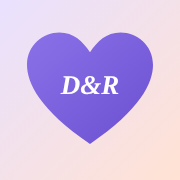
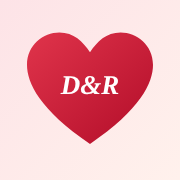
Thème « rouge passion » et champ date de rencontre compact
- Nouvelle palette romantique : fond ivoire rosé, rouge profond pour les boutons et accents,
  texte bordeaux, touches de rose (toutes les teintes de l'ancien thème remplacées)
- Icône de l'appli et couleurs d'installation en rouge
- Champs date (connexion, inscription, etc.) : même hauteur que les autres champs,
  sans l'apparence agrandie d'iOS, libellé compact au-dessus

Claude-Session: https://claude.ai/code/session_01DGKm3Fp7c6nJh9fQRkTSa6

Changed region(s): [[0.1389, 0.1667, 0.8611, 0.8056], [0.9722, 0.9722, 1.0, 1.0]]

diff --git a/index.html b/index.html
@@ -3,7 +3,7 @@
 <head>
 <meta charset="utf-8">
 <meta name="viewport" content="width=device-width, initial-scale=1, viewport-fit=cover">
-<meta name="theme-color" content="#F8F5FF">
+<meta name="theme-color" content="#FFF8F6">
 <meta name="color-scheme" content="light">
 <meta name="apple-mobile-web-app-capable" content="yes">
 <meta name="mobile-web-app-capable" content="yes">
@@ -17,18 +17,18 @@
 <link href="https://fonts.googleapis.com/css2?family=Playfair+Display:ital,wght@0,600;0,700;1,500;1,600&family=Plus+Jakarta+Sans:wght@400;500;600;700;800&family=Caveat:wght@600&display=swap" rel="stylesheet">
 <style>
   :root{
-    /* Ambiance B : lavande & pêche */
-    --night:#F8F5FF; --night2:#EFE9FF; --plum:#FFE8DD;
-    --text:#2E2547; --muted:#625A80; --faint:#736C8E;
-    --rose:#6A50D0; --rose2:#5B43C4; --peach:#FFB08F; --gold:#B5532D; --mint:#2F9E7E;
-    --glass:#FFFFFF; --glass2:#F3EFFF; --stroke:#E7E1F5;
-    --lav:#ECE6FF; --peachsoft:#FFE8DD; --shadow:0 8px 24px rgba(46,37,71,.07);
+    /* Thème « rouge passion » : ivoire rosé, rouge profond, bordeaux */
+    --night:#FFF8F6; --night2:#FDEDEE; --plum:#FFEDEA;
+    --text:#3A1520; --muted:#7A4E57; --faint:#8A6168;
+    --rose:#C8102E; --rose2:#A80D26; --peach:#F4A3A8; --gold:#B0413E; --mint:#2F9E7E;
+    --glass:#FFFFFF; --glass2:#FDF1F2; --stroke:#F3DFE2;
+    --lav:#FCE4E7; --peachsoft:#FFEDEA; --shadow:0 8px 24px rgba(58,21,32,.07);
     --serif:'Playfair Display',Georgia,serif; --sans:'Plus Jakarta Sans',system-ui,sans-serif; --hand:'Caveat',cursive;
   }
   *{box-sizing:border-box;-webkit-tap-highlight-color:transparent}
   html,body{margin:0;min-height:100%;color:var(--text);font-family:var(--sans);font-size:16px;background:var(--night)}
-  body{background:radial-gradient(700px 380px at 100% -5%,rgba(255,176,143,.28),transparent 65%),
-      radial-gradient(700px 420px at -10% 0%,rgba(155,135,245,.22),transparent 60%),var(--night)}
+  body{background:radial-gradient(700px 380px at 100% -5%,rgba(244,163,168,.28),transparent 65%),
+      radial-gradient(700px 420px at -10% 0%,rgba(227,93,106,.22),transparent 60%),var(--night)}
   button,input,textarea{font-family:inherit;color:inherit;font-size:inherit}
   #app{position:relative;z-index:1;max-width:560px;margin:0 auto;min-height:100dvh;display:flex;flex-direction:column}
   .page{flex:1;padding:8px 18px calc(110px + env(safe-area-inset-bottom))}
@@ -43,15 +43,15 @@
 
   /* en-tête et navigation */
   .top{position:sticky;top:0;z-index:5;display:flex;align-items:center;justify-content:space-between;
-       padding:calc(12px + env(safe-area-inset-top)) 18px 10px;background:linear-gradient(rgba(248,245,255,.96) 65%,rgba(248,245,255,0))}
+       padding:calc(12px + env(safe-area-inset-top)) 18px 10px;background:linear-gradient(rgba(255,248,246,.96) 65%,rgba(255,248,246,0))}
   .brand{font-family:var(--serif);font-size:26px;font-weight:700;font-style:italic;letter-spacing:.3px}
   .brand b{color:var(--rose);font-style:normal;display:inline-block;animation:beat 2s infinite;margin:0 2px}
   @keyframes beat{0%,100%{transform:scale(1)}12%{transform:scale(1.25)}24%{transform:scale(1)}36%{transform:scale(1.12)}}
-  .round{width:42px;height:42px;border-radius:50%;border:0;background:#fff;box-shadow:0 4px 14px rgba(91,67,196,.14);display:grid;place-items:center;cursor:pointer;color:var(--rose2)}
+  .round{width:42px;height:42px;border-radius:50%;border:0;background:#fff;box-shadow:0 4px 14px rgba(168,13,38,.14);display:grid;place-items:center;cursor:pointer;color:var(--rose2)}
   .round svg{width:20px;height:20px}
   .tabs{position:fixed;left:50%;transform:translateX(-50%);bottom:calc(12px + env(safe-area-inset-bottom));z-index:6;width:calc(100% - 24px);max-width:520px;
         display:flex;padding:6px;border-radius:24px;background:rgba(255,255,255,.94);border:1px solid var(--stroke);backdrop-filter:blur(18px);-webkit-backdrop-filter:blur(18px);
-        box-shadow:0 10px 30px rgba(46,37,71,.12)}
+        box-shadow:0 10px 30px rgba(58,21,32,.12)}
   .tabs button{flex:1;border:0;background:none;color:var(--faint);padding:8px 0 6px;border-radius:18px;cursor:pointer;font-size:11px;font-weight:700;position:relative;
                display:flex;flex-direction:column;align-items:center;gap:3px;transition:background .2s,color .2s}
   .tabs svg{width:22px;height:22px}
@@ -59,10 +59,10 @@
   .badge{position:absolute;top:3px;left:calc(50% + 6px);background:var(--gold);color:#fff;border-radius:999px;font-size:10px;min-width:17px;height:17px;line-height:17px;padding:0 4px}
 
   /* cartes */
-  .card{background:#fff;border:1px solid rgba(231,225,245,.7);border-radius:24px;padding:18px;margin:14px 0;box-shadow:var(--shadow)}
-  .card.glow{background:linear-gradient(150deg,#E9E1FF 0%,#FFE2D3 100%);border-color:transparent;box-shadow:none}
+  .card{background:#fff;border:1px solid rgba(243,223,226,.7);border-radius:24px;padding:18px;margin:14px 0;box-shadow:var(--shadow)}
+  .card.glow{background:linear-gradient(150deg,#FCE1E5 0%,#FFF0EB 100%);border-color:transparent;box-shadow:none}
   .btn{appearance:none;display:flex;align-items:center;justify-content:center;gap:8px;width:100%;border:0;border-radius:16px;padding:14px 18px;cursor:pointer;
-       font-weight:700;color:#fff;background:linear-gradient(135deg,#7B61E0,#6A50D0);box-shadow:0 8px 22px rgba(106,80,208,.28);transition:transform .08s,opacity .2s}
+       font-weight:700;color:#fff;background:linear-gradient(135deg,#DC2F45,#C8102E);box-shadow:0 8px 22px rgba(200,16,46,.28);transition:transform .08s,opacity .2s}
   .btn:active{transform:scale(.98)}
   .btn:disabled{opacity:.5}
   .btn.ghost{background:var(--glass2);color:var(--rose2);box-shadow:none;border:1px solid var(--stroke)}
@@ -72,21 +72,25 @@
   input[type=text],input[type=password],input[type=number],input[type=date],textarea{width:100%;min-width:0;padding:13px 14px;border-radius:14px;
        border:1px solid var(--stroke);background:#fff;color:var(--text);font-size:16px;color-scheme:light}
   input::placeholder,textarea::placeholder{color:var(--faint)}
-  input:focus,textarea:focus{outline:2px solid rgba(106,80,208,.45);outline-offset:1px}
+  input[type=date],input[type=datetime-local]{-webkit-appearance:none;appearance:none;display:block;box-sizing:border-box;height:48px;min-height:0;padding:10px 14px;font-size:16px;line-height:1.2;text-align:left;background:#fff}
+  input[type=date]::-webkit-date-and-time-value,input[type=datetime-local]::-webkit-date-and-time-value{text-align:left;margin:0}
+  input[type=date]::-webkit-calendar-picker-indicator{opacity:.55}
+  .datefield{display:flex;flex-direction:column;gap:6px;font-size:13px;font-weight:600;color:var(--muted)}
+  input:focus,textarea:focus{outline:2px solid rgba(200,16,46,.45);outline-offset:1px}
   textarea{resize:vertical;min-height:96px;line-height:1.45}
   .row{display:flex;gap:10px;align-items:center}
   .row > .grow{flex:1}
   .stack{display:flex;flex-direction:column;gap:12px}
   .seg{display:flex;padding:4px;border-radius:14px;background:var(--glass2);border:1px solid var(--stroke)}
   .seg button{flex:1;border:0;background:none;border-radius:10px;padding:9px 4px;cursor:pointer;font-weight:700;font-size:14px;color:var(--muted)}
-  .seg button.on{background:#fff;color:var(--rose2);box-shadow:0 2px 8px rgba(46,37,71,.08)}
+  .seg button.on{background:#fff;color:var(--rose2);box-shadow:0 2px 8px rgba(58,21,32,.08)}
 
   /* accueil */
   .hero{text-align:center;padding:18px 0 6px}
   .hero .names{font-family:var(--serif);font-size:44px;font-weight:700;line-height:1}
   .hero .names i{color:var(--rose);font-weight:600}
   .hero .num{font-family:var(--serif);font-size:88px;font-weight:700;line-height:.9;margin-top:14px;
-             background:linear-gradient(135deg,#6A50D0 20%,#E07B5A);-webkit-background-clip:text;background-clip:text;color:transparent}
+             background:linear-gradient(135deg,#C8102E 20%,#E35D6A);-webkit-background-clip:text;background-clip:text;color:transparent}
   .hero .unit{font-family:var(--serif);font-style:italic;font-size:24px;color:var(--rose2)}
   .hero .ymd{color:var(--muted);margin-top:6px}
   .pillnote{display:inline-flex;gap:8px;align-items:center;margin-top:12px;padding:7px 14px;border-radius:999px;background:var(--glass);border:1px solid var(--stroke);font-size:14px;color:var(--text)}
@@ -109,7 +113,7 @@
 
   /* petits mots */
   .bubble{max-width:86%;padding:12px 16px;margin:12px 0;border-radius:22px;position:relative}
-  .bubble.me{margin-left:auto;background:linear-gradient(135deg,#7B61E0,#6A50D0);color:#fff;border-bottom-right-radius:6px}
+  .bubble.me{margin-left:auto;background:linear-gradient(135deg,#DC2F45,#C8102E);color:#fff;border-bottom-right-radius:6px}
   .bubble.me .meta,.bubble.me .x{color:rgba(255,255,255,.8)}
   .bubble.them{background:#fff;border:1px solid var(--stroke);box-shadow:var(--shadow);border-bottom-left-radius:6px}
   .bubble .txt{font-size:17px;line-height:1.45;white-space:pre-wrap;word-break:break-word}
@@ -122,29 +126,29 @@
 
   /* souvenirs */
   .polas{display:grid;grid-template-columns:1fr 1fr;gap:16px 14px;margin-top:12px}
-  .pola{background:#fbf6ef;color:#3a2433;padding:8px 8px 10px;border-radius:6px;box-shadow:0 10px 24px rgba(46,37,71,.16);cursor:pointer;transition:transform .2s;border:0;text-align:left}
+  .pola{background:#fbf6ef;color:#3a2433;padding:8px 8px 10px;border-radius:6px;box-shadow:0 10px 24px rgba(58,21,32,.16);cursor:pointer;transition:transform .2s;border:0;text-align:left}
   .pola:nth-child(odd){transform:rotate(-1.8deg)} .pola:nth-child(even){transform:rotate(1.6deg)}
   .pola:active{transform:scale(.97)}
   .pola img{width:100%;aspect-ratio:1;object-fit:cover;display:block;background:#e9dfd3;border-radius:2px}
   .pola .cap{font-family:var(--hand);font-size:21px;line-height:1.05;margin-top:6px;min-height:22px;overflow:hidden;display:-webkit-box;-webkit-line-clamp:2;-webkit-box-orient:vertical}
   .pola .dt{font-size:11px;color:#8a7380;margin-top:2px;display:flex;justify-content:space-between}
-  .addpola{border:2px dashed #C9BDF5;background:rgba(236,230,255,.6);border-radius:18px;display:flex;flex-direction:column;align-items:center;justify-content:center;
+  .addpola{border:2px dashed #EDB3BC;background:rgba(252,228,231,.6);border-radius:18px;display:flex;flex-direction:column;align-items:center;justify-content:center;
            gap:6px;min-height:200px;color:var(--rose2);font-weight:700;cursor:pointer}
   .addpola span{font-size:38px}
   .memview img.full{width:100%;border-radius:10px;display:block;background:#000}
-  .memview .polabig{background:#fbf6ef;color:#3a2433;padding:10px 10px 14px;border-radius:8px;box-shadow:0 14px 34px rgba(46,37,71,.18)}
+  .memview .polabig{background:#fbf6ef;color:#3a2433;padding:10px 10px 14px;border-radius:8px;box-shadow:0 14px 34px rgba(58,21,32,.18)}
   .memview .cap{font-family:var(--hand);font-size:28px;line-height:1.1;margin-top:10px;white-space:pre-wrap;word-break:break-word}
   .mnote{background:var(--glass2);border:1px solid var(--stroke);border-radius:16px;padding:10px 12px;margin:8px 0}
   .mnote .w{font-size:12px;font-weight:700;color:var(--rose2);display:flex;justify-content:space-between}
   .mnote .t{white-space:pre-wrap;word-break:break-word;margin-top:2px}
-  .drop{border:2px dashed #C9BDF5;border-radius:18px;padding:22px;text-align:center;cursor:pointer;color:var(--rose2);font-weight:700;background:rgba(236,230,255,.5)}
+  .drop{border:2px dashed #EDB3BC;border-radius:18px;padding:22px;text-align:center;cursor:pointer;color:var(--rose2);font-weight:700;background:rgba(252,228,231,.5)}
   .drop img{max-width:100%;max-height:45vh;border-radius:10px;display:block;margin:0 auto}
 
 
   /* question */
   .question{font-family:var(--serif);font-size:34px;font-weight:700;font-style:italic;line-height:1.15;text-align:center;margin:6px 0 2px}
   .answer{background:var(--glass2);border:1px solid var(--stroke);border-radius:18px;padding:12px 14px;margin:10px 0}
-  .answer.them{background:linear-gradient(135deg,#ECE6FF,#FFE8DD)}
+  .answer.them{background:linear-gradient(135deg,#FCE4E7,#FFEDEA)}
   .answer .n{font-weight:700;font-size:12px;letter-spacing:1px;text-transform:uppercase;color:var(--rose2)}
   .answer .a{font-size:17px;line-height:1.45;white-space:pre-wrap;word-break:break-word;margin-top:4px}
   .locked{filter:blur(6px);user-select:none}
@@ -155,16 +159,16 @@
   .moods{display:grid;grid-template-columns:1fr 1fr;gap:8px;margin:12px 0}
   .moods button{display:flex;align-items:center;gap:8px;text-align:left;padding:10px 12px;border-radius:14px;border:1px solid var(--stroke);background:var(--glass);cursor:pointer;font-weight:500;font-size:14px;color:var(--text)}
   .moods button span{font-size:24px;line-height:1}
-  .moods button.on{background:var(--lav);border-color:#B9A7F5;color:var(--rose2);font-weight:700}
-  .moods button.spicy{border-color:#F4B4A0}
+  .moods button.on{background:var(--lav);border-color:#E98A98;color:var(--rose2);font-weight:700}
+  .moods button.spicy{border-color:#F0A8B0}
 
   /* je pense à toi */
   .thinkcard{text-align:center;padding:22px 18px}
   .thinkbtn{width:118px;height:118px;border-radius:50%;border:0;cursor:pointer;font-size:58px;color:#fff;line-height:1;margin:0 auto 10px;display:grid;place-items:center;
-            background:radial-gradient(circle at 35% 30%,#B9A7F5,#6A50D0 65%);box-shadow:0 0 0 10px rgba(106,80,208,.12),0 0 0 22px rgba(106,80,208,.05),0 14px 40px rgba(106,80,208,.35);
+            background:radial-gradient(circle at 35% 30%,#E98A98,#C8102E 65%);box-shadow:0 0 0 10px rgba(200,16,46,.12),0 0 0 22px rgba(200,16,46,.05),0 14px 40px rgba(200,16,46,.35);
             animation:pulse 2.4s ease-in-out infinite;transition:transform .1s;user-select:none;-webkit-user-select:none}
   .thinkbtn:active{transform:scale(.9)}
-  @keyframes pulse{0%,100%{box-shadow:0 0 0 7px rgba(106,80,208,.14),0 8px 24px rgba(106,80,208,.3)}50%{box-shadow:0 0 0 13px rgba(106,80,208,.08),0 8px 30px rgba(106,80,208,.45)}}
+  @keyframes pulse{0%,100%{box-shadow:0 0 0 7px rgba(200,16,46,.14),0 8px 24px rgba(200,16,46,.3)}50%{box-shadow:0 0 0 13px rgba(200,16,46,.08),0 8px 30px rgba(200,16,46,.45)}}
   .stats{display:flex;justify-content:center;gap:10px;flex-wrap:wrap;margin-top:12px}
   /* distance et météo */
   .geo{display:grid;grid-template-columns:1fr 1fr;gap:10px;text-align:center}
@@ -173,16 +177,16 @@
   /* lettres */
   .envs{display:grid;grid-template-columns:1fr 1fr;gap:14px;margin-top:12px}
   .env{position:relative;border:0;cursor:pointer;text-align:center;padding:26px 10px 16px;border-radius:14px;color:#3a2433;
-       background:linear-gradient(160deg,#fbf3ea,#f1e2d3);box-shadow:0 10px 24px rgba(46,37,71,.14);overflow:hidden;min-height:150px}
+       background:linear-gradient(160deg,#fbf3ea,#f1e2d3);box-shadow:0 10px 24px rgba(58,21,32,.14);overflow:hidden;min-height:150px}
   .env::before{content:"";position:absolute;left:0;right:0;top:0;height:58px;background:linear-gradient(160deg,#f4e6d8,#e8d4c1);clip-path:polygon(0 0,100% 0,50% 100%)}
   .env .seal{position:relative;z-index:1;width:42px;height:42px;margin:6px auto 10px;border-radius:50%;display:grid;place-items:center;font-size:20px;
-             background:radial-gradient(circle at 35% 30%,#B9A7F5,#5B43C4);box-shadow:0 3px 8px rgba(0,0,0,.3);color:#fff}
+             background:radial-gradient(circle at 35% 30%,#E98A98,#A80D26);box-shadow:0 3px 8px rgba(0,0,0,.3);color:#fff}
   .env .lb{font-family:var(--hand);font-size:22px;line-height:1.05;position:relative;z-index:1}
   .env .sm{font-size:11px;font-weight:700;letter-spacing:1px;text-transform:uppercase;color:#a07e8e;position:relative;z-index:1}
   .env.locked{filter:saturate(.6) brightness(.92)}
   .env.opened{min-height:0;padding:14px 10px}
   .env.opened::before{display:none}
-  .paper{background:#fbf6ef;color:#3a2433;border-radius:10px;padding:22px 20px;box-shadow:0 14px 34px rgba(46,37,71,.16);
+  .paper{background:#fbf6ef;color:#3a2433;border-radius:10px;padding:22px 20px;box-shadow:0 14px 34px rgba(58,21,32,.16);
          background-image:repeating-linear-gradient(transparent 0 33px,rgba(160,120,140,.18) 33px 34px);}
   .paper .hd{font-size:12px;font-weight:700;letter-spacing:1.2px;text-transform:uppercase;color:#a07e8e;margin-bottom:8px}
   .paper .body{font-family:var(--hand);font-size:26px;line-height:34px;white-space:pre-wrap;word-break:break-word}
@@ -191,19 +195,19 @@
   @keyframes unfold{from{transform:perspective(800px) rotateX(70deg) scale(.8);opacity:0}}
   .chipsel{display:flex;flex-wrap:wrap;gap:6px;margin:4px 0}
   .chipsel button{border:1px solid var(--stroke);background:#fff;border-radius:999px;padding:7px 12px;cursor:pointer;font-size:14px;color:var(--text)}
-  .chipsel button.on{background:var(--lav);border-color:#B9A7F5;color:var(--rose2);font-weight:700}
+  .chipsel button.on{background:var(--lav);border-color:#E98A98;color:var(--rose2);font-weight:700}
   .writepaper{background:#fbf6ef;color:#3a2433;font-family:var(--hand);font-size:24px;line-height:32px;min-height:220px;border:0;
               background-image:repeating-linear-gradient(transparent 0 31px,rgba(160,120,140,.2) 31px 32px);padding:10px 14px}
   .writepaper::placeholder{color:#b49aa8}
   /* bocal */
   .jar{position:relative;width:150px;height:170px;margin:4px auto 12px}
-  .jar .glass{position:absolute;inset:22px 6px 0;border-radius:28px 28px 34px 34px;background:linear-gradient(90deg,rgba(236,230,255,.9),rgba(255,255,255,.6) 40%,rgba(236,230,255,.8));
-              border:2px solid #C9BDF5;overflow:hidden}
+  .jar .glass{position:absolute;inset:22px 6px 0;border-radius:28px 28px 34px 34px;background:linear-gradient(90deg,rgba(252,228,231,.9),rgba(255,255,255,.6) 40%,rgba(252,228,231,.8));
+              border:2px solid #EDB3BC;overflow:hidden}
   .jar .lid{position:absolute;left:24px;right:24px;top:6px;height:22px;border-radius:8px;background:linear-gradient(#f5d08a,#c99a4b);box-shadow:0 2px 6px rgba(0,0,0,.3)}
   .jar .papers{position:absolute;left:0;right:0;bottom:0;display:flex;flex-wrap:wrap-reverse;justify-content:center;gap:2px;padding:8px}
   .jar .papers span{font-size:18px;line-height:1}
   .jar .count{position:absolute;inset:auto 0 -6px;text-align:center}
-  .reason{background:#fbf6ef;color:#3a2433;border-radius:10px;padding:10px 14px;margin:8px 0;font-family:var(--hand);font-size:22px;line-height:1.15;box-shadow:0 6px 16px rgba(46,37,71,.12)}
+  .reason{background:#fbf6ef;color:#3a2433;border-radius:10px;padding:10px 14px;margin:8px 0;font-family:var(--hand);font-size:22px;line-height:1.15;box-shadow:0 6px 16px rgba(58,21,32,.12)}
   .reason small{display:block;font-family:var(--sans);font-size:11px;color:#a07e8e;margin-top:4px}
   /* dessin */
   .doodlewrap{position:relative;width:100%;aspect-ratio:1;background:#fff;border-radius:16px;overflow:hidden;touch-action:none}
@@ -216,8 +220,8 @@
   .snapstrip{display:flex;gap:14px;overflow-x:auto;padding:4px 2px 2px;scrollbar-width:none}
   .snapstrip::-webkit-scrollbar{display:none}
   .snapit{flex:none;width:70px;border:0;background:none;cursor:pointer;color:var(--text);padding:0;text-align:center}
-  .snapit .ring{width:66px;height:66px;border-radius:50%;padding:3px;margin:0 auto;background:#E2DCEF}
-  .snapit.new .ring{background:conic-gradient(from 210deg,#9B87F5,#FFB08F,#6A50D0,#9B87F5)}
+  .snapit .ring{width:66px;height:66px;border-radius:50%;padding:3px;margin:0 auto;background:#EEDADD}
+  .snapit.new .ring{background:conic-gradient(from 210deg,#E35D6A,#F4A3A8,#C8102E,#E35D6A)}
   .snapit .ring img,.snapit .ring div{width:100%;height:100%;border-radius:50%;object-fit:cover;border:3px solid #fff;display:grid;place-items:center;background:var(--glass2);font-size:26px;color:var(--rose2)}
   .snapit small{display:block;font-size:11px;margin-top:5px;color:var(--muted);white-space:nowrap;overflow:hidden;text-overflow:ellipsis}
   .snapit.new small{color:var(--text);font-weight:800}
@@ -237,12 +241,12 @@
   .closex{width:40px;height:40px;border-radius:50%;border:0;background:rgba(255,255,255,.15);color:#fff;font-size:22px;cursor:pointer}
 
   /* carte */
-  .mapbox{position:relative;height:300px;border-radius:20px;overflow:hidden;margin:4px 0 12px;background:#EFE9FF;border:1px solid var(--stroke)}
-  .mapbox .leaflet-container{background:#EFE9FF;font-family:var(--sans)}
+  .mapbox{position:relative;height:300px;border-radius:20px;overflow:hidden;margin:4px 0 12px;background:#FDEDEE;border:1px solid var(--stroke)}
+  .mapbox .leaflet-container{background:#FDEDEE;font-family:var(--sans)}
   .nighttiles{filter:saturate(.7) hue-rotate(-8deg) brightness(1.03)}
   .mapfs{position:absolute;top:10px;right:10px;z-index:500;width:36px;height:36px;border-radius:12px;border:1px solid var(--stroke);background:rgba(21,13,43,.8);color:#fff;font-size:18px;cursor:pointer}
   .facepin{display:flex;flex-direction:column;align-items:center}
-  .facepin .ph{width:56px;height:56px;border-radius:50%;border:3px solid var(--rose);background:#ECE6FF center/cover no-repeat;box-shadow:0 6px 18px rgba(46,37,71,.3);color:#5B43C4;
+  .facepin .ph{width:56px;height:56px;border-radius:50%;border:3px solid var(--rose);background:#FCE4E7 center/cover no-repeat;box-shadow:0 6px 18px rgba(58,21,32,.3);color:#A80D26;
                display:grid;place-items:center;font-family:var(--serif);font-weight:700;font-size:24px;color:#fff;position:relative}
   .facepin.me .ph{border-color:var(--gold)}
   .facepin .ph::after{content:"";position:absolute;bottom:-9px;left:50%;transform:translateX(-50%);border:7px solid transparent;border-top-color:var(--rose)}
@@ -252,16 +256,16 @@
   .leaflet-control-attribution a{color:var(--muted)!important}
   .leaflet-bar a{background:rgba(21,13,43,.85)!important;color:#fff!important;border-color:var(--stroke)!important}
   .distlabel{background:rgba(21,13,43,.9);color:var(--gold);border:1px solid rgba(245,208,138,.5);border-radius:999px;padding:3px 10px;font-weight:700;font-size:12px;white-space:nowrap;transform:translate(-50%,-50%);display:inline-block}
-  .avatarbig{width:84px;height:84px;border-radius:50%;background:#ECE6FF center/cover no-repeat;color:#5B43C4;border:3px solid var(--rose);display:grid;place-items:center;font-family:var(--serif);font-size:34px;font-weight:700;flex:none}
+  .avatarbig{width:84px;height:84px;border-radius:50%;background:#FCE4E7 center/cover no-repeat;color:#A80D26;border:3px solid var(--rose);display:grid;place-items:center;font-family:var(--serif);font-size:34px;font-weight:700;flex:none}
   .mapfull{position:fixed;inset:0;z-index:40;background:#000}
   .mapfull .mapbox{position:absolute;inset:0;height:auto;border-radius:0;margin:0;border:0}
 
   /* vocaux */
   .voice{display:flex;align-items:center;gap:10px;min-width:210px;margin-bottom:2px}
-  .vplay{width:42px;height:42px;border-radius:50%;border:0;flex:none;cursor:pointer;font-size:16px;color:#fff;background:linear-gradient(135deg,#7B61E0,#6A50D0);display:grid;place-items:center}
+  .vplay{width:42px;height:42px;border-radius:50%;border:0;flex:none;cursor:pointer;font-size:16px;color:#fff;background:linear-gradient(135deg,#DC2F45,#C8102E);display:grid;place-items:center}
   .bubble.me .vplay{background:#fff;color:var(--rose2)}
   .vwave{flex:1;height:28px;display:flex;align-items:center;gap:2px;cursor:pointer}
-  .vwave i{flex:1;border-radius:3px;background:#D9D0F5;min-width:3px;max-width:5px}
+  .vwave i{flex:1;border-radius:3px;background:#F2C9CF;min-width:3px;max-width:5px}
   .vwave i.on{background:var(--rose)}
   .bubble.me .vwave i{background:rgba(255,255,255,.4)}
   .bubble.me .vwave i.on{background:#fff}
@@ -279,7 +283,7 @@
   .timeline{position:relative;margin:18px 0 0 10px;padding-left:26px}
   .timeline::before{content:"";position:absolute;left:8px;top:6px;bottom:6px;width:2px;background:linear-gradient(var(--rose),var(--peach),var(--gold));border-radius:2px}
   .tl{position:relative;margin-bottom:22px}
-  .tl .dot{position:absolute;left:-32px;top:0;width:30px;height:30px;border-radius:50%;display:grid;place-items:center;font-size:16px;background:#fff;border:2px solid #B9A7F5}
+  .tl .dot{position:absolute;left:-32px;top:0;width:30px;height:30px;border-radius:50%;display:grid;place-items:center;font-size:16px;background:#fff;border:2px solid #E98A98}
   .tl .when{font-size:12px;font-weight:700;letter-spacing:1px;text-transform:uppercase;color:var(--rose2)}
   .tl h3{margin:2px 0 4px}
   .tl img{width:100%;border-radius:14px;margin-top:8px;display:block}
@@ -326,12 +330,12 @@
 
   /* accueil (ambiance B) */
   .hello{padding:6px 2px 2px}
-  .herocard{position:relative;overflow:hidden;margin:12px 0 0;padding:20px 22px;border-radius:28px;background:linear-gradient(150deg,#E9E1FF 0%,#FFE2D3 100%)}
+  .herocard{position:relative;overflow:hidden;margin:12px 0 0;padding:20px 22px;border-radius:28px;background:linear-gradient(150deg,#FCE1E5 0%,#FFF0EB 100%)}
   .hc-names{font-family:var(--serif);font-style:italic;font-size:18px;color:var(--rose2)}
   .hc-row{display:flex;align-items:baseline;gap:8px;margin-top:2px}
   .herocard .num{font-family:var(--serif);font-size:68px;font-weight:700;line-height:1;margin:0;background:none;-webkit-background-clip:initial;background-clip:initial;color:var(--text)}
-  .hc-unit{font-weight:700;color:#4E4470}
-  .hc-ymd{font-size:14px;color:#4E4470;font-weight:600;margin-top:4px}
+  .hc-unit{font-weight:700;color:#6B3540}
+  .hc-ymd{font-size:14px;color:#6B3540;font-weight:600;margin-top:4px}
   .hc-pills{display:flex;flex-wrap:wrap;gap:6px;margin-top:12px;position:relative;z-index:1}
   .hc-pills .pillnote{margin:0;background:#fff;border:0;font-weight:700;font-size:13px;color:var(--rose2)}
   .hc-heart{position:absolute;right:-22px;top:4px;width:130px;height:130px;fill:#fff;opacity:.5}
@@ -352,8 +356,8 @@
   .btn svg{flex:none}
 
   /* fenêtres, toasts */
-  .modal{position:fixed;inset:0;background:rgba(46,37,71,.35);backdrop-filter:blur(4px);-webkit-backdrop-filter:blur(4px);display:flex;align-items:flex-end;justify-content:center;z-index:20;animation:fade .2s}
-  .modal .sheet{width:100%;max-width:560px;max-height:94dvh;overflow:auto;background:#fff;border:1px solid var(--stroke);border-bottom:0;box-shadow:0 -10px 40px rgba(46,37,71,.12);
+  .modal{position:fixed;inset:0;background:rgba(58,21,32,.35);backdrop-filter:blur(4px);-webkit-backdrop-filter:blur(4px);display:flex;align-items:flex-end;justify-content:center;z-index:20;animation:fade .2s}
+  .modal .sheet{width:100%;max-width:560px;max-height:94dvh;overflow:auto;background:#fff;border:1px solid var(--stroke);border-bottom:0;box-shadow:0 -10px 40px rgba(58,21,32,.12);
                 border-radius:28px 28px 0 0;padding:22px 18px calc(24px + env(safe-area-inset-bottom));animation:up .28s cubic-bezier(.2,.9,.3,1.1)}
   .sheethead{position:sticky;top:-22px;z-index:5;display:flex;justify-content:center;align-items:center;margin:-22px -18px 8px;padding:10px 12px 4px;background:inherit;border-radius:28px 28px 0 0}
   .grab{width:44px;height:5px;border-radius:9px;background:var(--stroke);border:0;padding:0;cursor:pointer;margin:6px auto}
@@ -361,7 +365,7 @@
   @keyframes fade{from{opacity:0}}
   @keyframes up{from{transform:translateY(60px);opacity:.4}}
   .toast{position:fixed;left:50%;bottom:calc(104px + env(safe-area-inset-bottom));transform:translate(-50%,20px);opacity:0;background:var(--text);color:#fff;padding:11px 18px;border-radius:14px;
-         font-weight:700;max-width:calc(100% - 32px);text-align:center;transition:all .25s;z-index:30;pointer-events:none;box-shadow:0 10px 30px rgba(46,37,71,.25)}
+         font-weight:700;max-width:calc(100% - 32px);text-align:center;transition:all .25s;z-index:30;pointer-events:none;box-shadow:0 10px 30px rgba(58,21,32,.25)}
   .toast.on{opacity:1;transform:translate(-50%,0)}
   .floater{position:fixed;font-size:28px;pointer-events:none;z-index:25;animation:floatup 2s ease-out forwards}
   @keyframes floatup{0%{transform:translateY(0) scale(.5);opacity:0}20%{opacity:1;transform:translateY(-30px) scale(1.1)}100%{transform:translateY(-50vh) scale(.9);opacity:0}}
@@ -750,7 +754,7 @@ function welcomeScreen(mode,invite){
   };
   const loginForm=()=>{
     $("#wform").innerHTML=`<form class="card stack" id="lf" style="margin-top:14px">
-      <label class="faint" style="font-size:13px;font-weight:600">Votre date de rencontre<input type="date" id="ld" style="margin-top:6px"></label>
+      <label class="datefield">Votre date de rencontre<input type="date" id="ld"></label>
       <input type="password" id="lc" placeholder="Votre code confidentiel" autocomplete="current-password">
       <button class="btn">Se connecter</button>
       <p class="faint" style="margin:0;font-size:13px">La date de rencontre et le code choisis à l'inscription de votre couple.</p></form>`;
@@ -770,7 +774,7 @@ function welcomeScreen(mode,invite){
     if(!SIGNUP_OPEN && !invite){ $("#wform").innerHTML=`<div class="card center" style="margin-top:14px"><div style="font-size:36px">🔒</div><p style="color:var(--text)">Les inscriptions sont fermées pour le moment.</p></div>`; return; }
     $("#wform").innerHTML=`<form class="card stack" id="sf" style="margin-top:14px">
       <div class="row"><input type="text" id="n1" class="grow" placeholder="Ton prénom" maxlength="20" autocomplete="given-name"><input type="text" id="n2" class="grow" placeholder="Son prénom" maxlength="20"></div>
-      <label class="faint" style="font-size:13px;font-weight:600">Votre date de rencontre<input type="date" id="st" max="${ymd(new Date())}" style="margin-top:6px"></label>
+      <label class="datefield">Votre date de rencontre<input type="date" id="st" max="${ymd(new Date())}"></label>
       <input type="password" id="k1" placeholder="Code confidentiel (6 caractères min.)" autocomplete="new-password">
       <input type="password" id="k2" placeholder="Confirme le code" autocomplete="new-password">
       <button class="btn">Créer notre espace</button>
@@ -950,8 +954,8 @@ function homeTab(){
 
   const myLoc=D.locs[WHO], theirLoc=D.locs[o], dist=myLoc&&theirLoc?km(myLoc,theirLoc):null;
   const moviePending=D.movie&&D.movie.at>sNow();
-  const QA=[["qa-note","pen","Petit mot","#ECE6FF","#5B43C4"],["qa-voice","mic","Vocal","#FFE8DD","#B5532D"],["qa-draw","brush","Dessin","#ECE6FF","#5B43C4"],
-            ["qa-letter","mail","Lettre","#FFE8DD","#B5532D"],["qa-surprise","gift","Surprise","#ECE6FF","#5B43C4"],["qa-movie","film",moviePending?"En cours…":"Film ensemble","#FFE8DD","#B5532D"]];
+  const QA=[["qa-note","pen","Petit mot","#FCE4E7","#A80D26"],["qa-voice","mic","Vocal","#FFEDEA","#B0413E"],["qa-draw","brush","Dessin","#FCE4E7","#A80D26"],
+            ["qa-letter","mail","Lettre","#FFEDEA","#B0413E"],["qa-surprise","gift","Surprise","#FCE4E7","#A80D26"],["qa-movie","film",moviePending?"En cours…":"Film ensemble","#FFEDEA","#B0413E"]];
   const hour=new Date().getHours(), hello=hour<5?"Bonne nuit":hour<18?"Bonjour":"Bonsoir";
 
   $("#page").innerHTML=`
@@ -971,12 +975,12 @@ function homeTab(){
 
     <div class="tiles">
       <button class="tile" id="setreunion">
-        <span class="ti" style="background:#FFE8DD;color:#B5532D">${SVG.plane}</span>
+        <span class="ti" style="background:#FFEDEA;color:#B0413E">${SVG.plane}</span>
         <b>${r&&rk>=0?(rk===0?"Aujourd'hui !":"J-"+rk):"Bientôt ?"}</b>
         <small>${r&&rk>=0?(rk===0?"le grand jour 🥹":"avant nos retrouvailles"):"choisir nos retrouvailles"}</small>
       </button>
       <button class="tile" id="godist">
-        <span class="ti" style="background:#ECE6FF;color:#5B43C4">${SVG.pin}</span>
+        <span class="ti" style="background:#FCE4E7;color:#A80D26">${SVG.pin}</span>
         <b>${dist!=null?dist.toLocaleString("fr-FR")+" km":theirTime||"Où es-tu ?"}</b>
         <small>${dist!=null?(theirLoc.city?esc(nm(o))+" est à "+esc(theirLoc.city):"entre nous deux"):theirTime?"il est cette heure chez "+esc(nm(o)):"voir la carte"}</small>
       </button>

diff --git a/README.md b/README.md
@@ -1,6 +1,6 @@
 # Nous Deux 💕
 
-L'appli privée de **Dali & Rahma** (ambiance claire « lavande & pêche »), ensemble depuis le 15 septembre 2025, à distance.
+L'appli privée de **Dali & Rahma** (thème « rouge passion » : ivoire rosé, rouge profond, bordeaux), ensemble depuis le 15 septembre 2025, à distance.
 
 Fonctionnalités inspirées des applis pour couples à distance (Paired, Together, Long Goodbye, Letterbox…).
 
